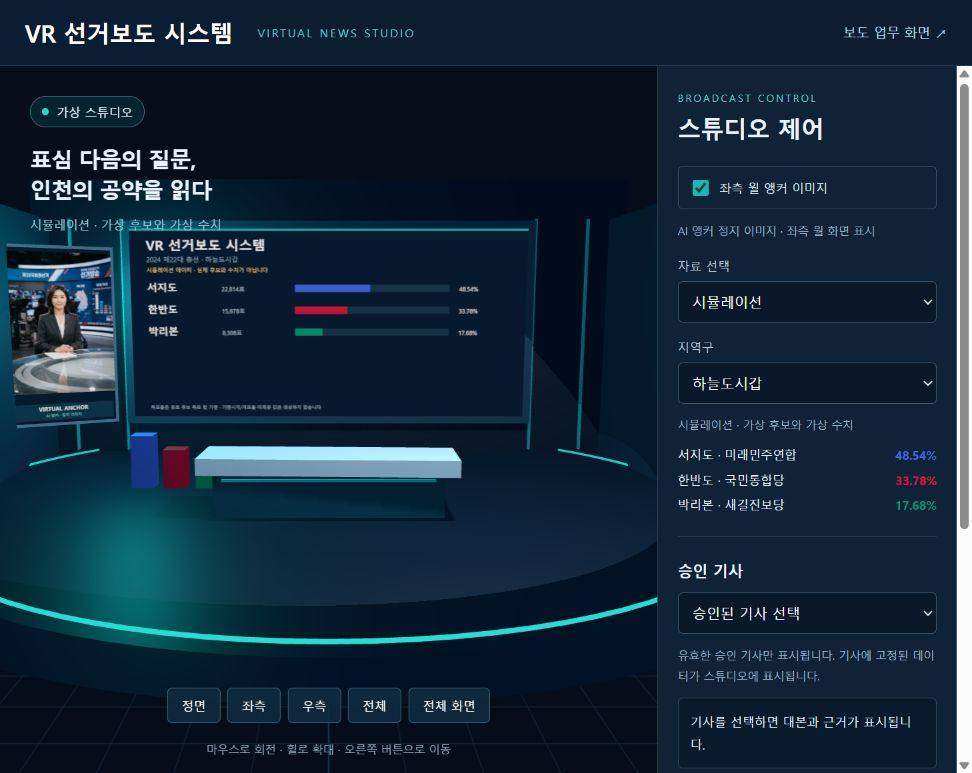
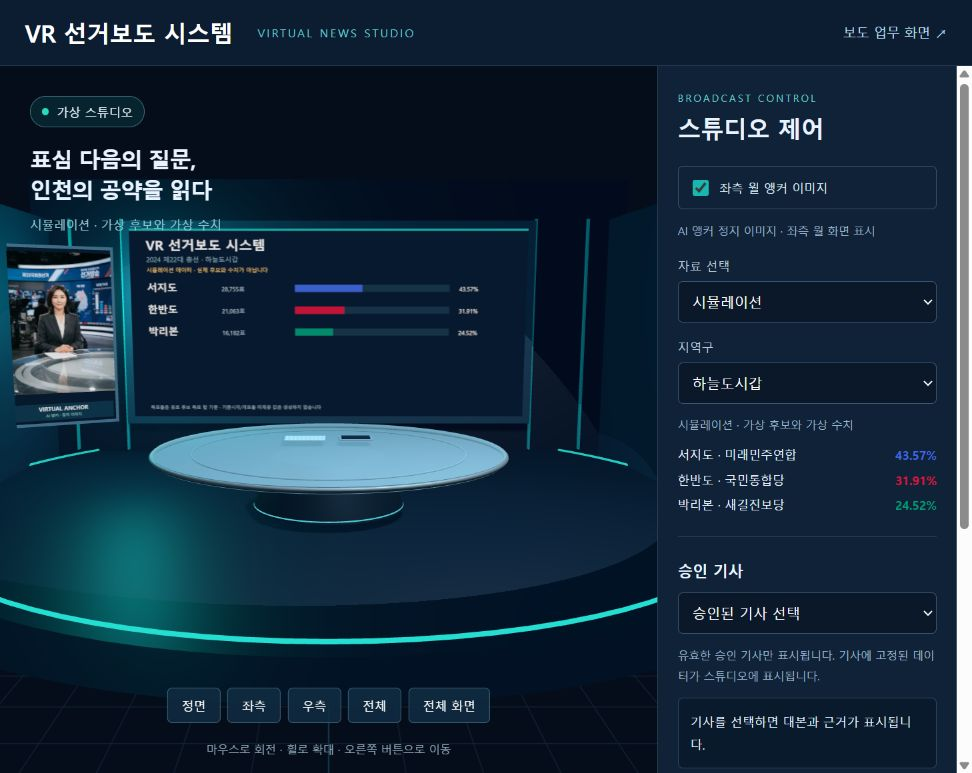
Enlarge circular glass studio desk and remove freestanding candidate bars

Changed region(s): [[0.1235, 0.5278, 0.5247, 0.6831], [0.9259, 0.5899, 0.9568, 0.6831]]

diff --git a/election-news-server/static/studio.js b/election-news-server/static/studio.js
@@ -5,7 +5,7 @@ import {OrbitControls} from '/static/vendor/OrbitControls.js';
 const $=id=>document.getElementById(id);
 const contextParams=new URLSearchParams(location.search),requestedArticle=contextParams.get('article'),requestedRegion=contextParams.get('region');let initialRegionPending=!!requestedRegion;
 const modeParam=contextParams.get('mode');if(['official','demo'].includes(modeParam))$('mode').value=modeParam;
-let renderer,scene,camera,controls,screenTexture,screenCanvas,chartGroup,rows=[],snapshot={},approved=[],currentBundle=null,ws;
+let renderer,scene,camera,controls,screenTexture,screenCanvas,rows=[],snapshot={},approved=[],currentBundle=null,ws;
 const material=(color,metalness=.1)=>new THREE.MeshStandardMaterial({color,metalness,roughness:.5});
 function box(w,h,d,x,y,z,color){const m=new THREE.Mesh(new THREE.BoxGeometry(w,h,d),material(color));m.position.set(x,y,z);m.castShadow=true;m.receiveShadow=true;scene.add(m);return m}
 function init(){
@@ -23,9 +23,15 @@ function init(){
  box(15.8,7.8,.4,0,5,-6.5,'#244c65');
  screenCanvas=document.createElement('canvas');screenCanvas.width=2048;screenCanvas.height=1024;screenTexture=new THREE.CanvasTexture(screenCanvas);screenTexture.colorSpace=THREE.SRGBColorSpace;
  const display=new THREE.Mesh(new THREE.PlaneGeometry(15.2,7.2),new THREE.MeshBasicMaterial({map:screenTexture}));display.position.set(0,5,-6.25);scene.add(display);
- const desk=box(7.0,.45,2,0,1.4,3.0,'#d8e7ee');desk.rotation.y=-.04;box(6.2,1.2,1.5,0,.6,3.0,'#0c4a5c');box(5.7,.06,.08,0,1.03,3.79,'#20d9c8');
+ // Large circular glass desk with a brushed metal rim and pedestal.
+ const glass=new THREE.MeshPhysicalMaterial({color:'#bfdfeb',metalness:.25,roughness:.13,transparent:true,opacity:.58,depthWrite:false,side:THREE.DoubleSide});
+ const desk=new THREE.Mesh(new THREE.CylinderGeometry(4.8,4.8,.16,128),glass);desk.position.set(0,1.65,2.8);desk.receiveShadow=true;scene.add(desk);
+ const rim=new THREE.Mesh(new THREE.TorusGeometry(4.8,.065,12,128),material('#c3d3dc',.8));rim.rotation.x=Math.PI/2;rim.position.set(0,1.65,2.8);scene.add(rim);
+ const innerRim=new THREE.Mesh(new THREE.TorusGeometry(3.75,.025,8,128),material('#a5c4d3',.7));innerRim.rotation.x=Math.PI/2;innerRim.position.set(0,1.66,2.8);scene.add(innerRim);
+ const pedestal=new THREE.Mesh(new THREE.CylinderGeometry(1.55,2.1,1.4,96),material('#17364b',.65));pedestal.position.set(0,.83,2.8);pedestal.castShadow=true;scene.add(pedestal);
+ const deskLight=new THREE.Mesh(new THREE.TorusGeometry(2.05,.035,8,96),new THREE.MeshBasicMaterial({color:'#51cbd5'}));deskLight.rotation.x=Math.PI/2;deskLight.position.set(0,.18,2.8);scene.add(deskLight);
+ box(1.2,.025,.8,-.7,1.76,1.3,'#e1ebef');box(.95,.04,.7,.8,1.76,1.3,'#b1c4d2');box(.85,.015,.6,.8,1.79,1.3,'#122b42');
  addAnchorWall(scene);
- chartGroup=new THREE.Group();scene.add(chartGroup);
  const resize=()=>{const {width,height}=$('stage').getBoundingClientRect();renderer.setSize(width,height);camera.aspect=width/height;camera.fov=THREE.MathUtils.radToDeg(2*Math.atan(Math.tan(THREE.MathUtils.degToRad(24))*Math.max(1,.95/camera.aspect)));camera.updateProjectionMatrix()};new ResizeObserver(resize).observe($('stage'));resize();
  renderer.setAnimationLoop(()=>{controls.update();renderer.render(scene,camera)});$('canvasStatus').hidden=true;draw();
 }
@@ -35,8 +41,7 @@ function draw(){
  const demo=snapshot.mode==='demo';ctx.fillStyle=demo?'#ffd17b':'#84dfd2';ctx.font='28px "Malgun Gothic", sans-serif';ctx.fillText(demo?'시뮬레이션 데이터 · 실제 후보와 수치가 아닙니다':('공식 파일 집계 · '+(snapshot.review?.status==='APPROVED'?'독립 검수 완료':'독립 검수 전')),85,232);
  const displayed=rows.slice(0,5);displayed.forEach((row,i)=>{const y=335+i*119;ctx.fillStyle='white';ctx.font='bold 52px "Malgun Gothic", sans-serif';ctx.fillText(row.candidate_name,85,y);ctx.font='30px "Malgun Gothic", sans-serif';ctx.fillStyle='#b6d4e6';ctx.fillText(Number(row.votes).toLocaleString('ko-KR')+'표',470,y);ctx.fillStyle='#17374c';ctx.fillRect(850,y-35,800,38);ctx.fillStyle=candidateColor(row,i);ctx.fillRect(850,y-35,800*row.vote_share/100,38);ctx.fillStyle='white';ctx.fillText(row.vote_share.toFixed(2)+'%',1700,y)});
  ctx.font='24px "Malgun Gothic", sans-serif';ctx.fillStyle='#9bc0ce';ctx.fillText('득표율은 유효 후보 득표 합 기준 · 기준시각/개표율 미제공 값은 생성하지 않습니다',85,984);screenTexture.needsUpdate=true;
- while(chartGroup.children.length){const mesh=chartGroup.children[0];chartGroup.remove(mesh);mesh.geometry.dispose();mesh.material.dispose()}
- displayed.forEach((r,i)=>{const h=.2+r.vote_share/100*3;const bar=new THREE.Mesh(new THREE.BoxGeometry(.7,h,.7),material(candidateColor(r,i),.4));bar.position.set(-5.8+i*1.0,h/2,-.1);chartGroup.add(bar)});
+
 }
 function update(data){
  if(currentBundle)return;snapshot=data;const selected=$('region').value,regions=[...new Set((data.rows||[]).map(r=>r.region_name))];$('region').replaceChildren(...regions.map(r=>new Option(r,r)));if(initialRegionPending&&regions.includes(requestedRegion)){$('region').value=requestedRegion;initialRegionPending=false}else if(regions.includes(selected))$('region').value=selected;

diff --git a/election-news-server/static/studio.html b/election-news-server/static/studio.html
@@ -2,4 +2,4 @@
 <header><a class="brand" href="/">VR 선거보도 시스템</a><span>VIRTUAL NEWS STUDIO</span><a id="studioWorkLink" href="/">보도 업무 화면 ↗</a></header>
 <main><div id="stage"><div class="stage-overlay"><div class="live"><i></i>가상 스튜디오</div><h1>표심 다음의 질문,<br>인천의 공약을 읽다</h1><p id="stageDisclosure">자료 연결 중</p></div><div id="canvasStatus" role="status">3D 스튜디오를 준비하고 있습니다.</div><div class="camera-bar"><button data-camera="front">정면</button><button data-camera="left">좌측</button><button data-camera="right">우측</button><button data-camera="wide">전체</button><button id="fullscreen">전체 화면</button></div><div class="hint">마우스로 회전 · 휠로 확대 · 오른쪽 버튼으로 이동</div></div>
 <aside><div class="eyebrow">BROADCAST CONTROL</div><h2>스튜디오 제어</h2><label class="anchor-wall-toggle"><input id="anchorWallVisible" type="checkbox" checked> 좌측 월 앵커 이미지</label><p id="anchorWallStatus" class="note">AI 앵커 정지 이미지 · 좌측 월 화면 표시</p><label for="mode">자료 선택</label><select id="mode"><option value="official">2024년 공식 결과</option><option value="demo">시뮬레이션</option></select><label for="region">지역구</label><select id="region"></select><p id="dataStatus" class="note">공식 집계는 독립 검수 여부를 함께 표시합니다.</p><div id="candidateSummary"></div><hr><h3>승인 기사</h3><select id="article"><option value="">승인된 기사를 선택하세요</option></select><p class="note">유효한 승인 기사만 표시됩니다. 기사에 고정된 데이터가 스튜디오에 표시됩니다.</p><div id="script" class="script">기사를 선택하면 대본과 근거가 표시됩니다.</div><div class="actions"><button id="read">대본 읽기</button><button id="stop">중지</button></div><p class="note">브라우저 음성은 미리듣기용입니다. 영상 파일의 음성과는 별개입니다.</p><hr><a id="studioProductionLink" href="/?production=1#production">07 뉴스 제작으로 이동</a><p class="note">선택한 승인 기사와 자료 유형을 뉴스 제작에 전달합니다. 영상 생성은 07에서 실행합니다.</p><button id="capture">스튜디오 이미지 저장</button><p id="message" role="status"></p><p class="note">PC에서 마우스와 키보드로 사용하는 3D 가상 스튜디오입니다.</p></aside></main>
-<script src="/static/newsroom-links.js?v=20261127"></script><script type="module" src="/static/studio.js?v=20261127-original-image"></script></body></html>
+<script src="/static/newsroom-links.js?v=20261127"></script><script type="module" src="/static/studio.js?v=20261127-round-desk"></script></body></html>

diff --git a/README.md b/README.md
@@ -22,7 +22,7 @@
 
 ## 좌측 월 앵커 이미지
 
-기본 스튜디오의 중앙 데스크·메인 개표 화면·무대 구성을 복원하고, 제공된 앵커·보도국 원본 이미지를 좌측 월의 독립 화면에 배치했습니다. 원본 비율을 유지해 배경과 데스크를 포함한 전체 이미지를 표시합니다. **좌측 월 앵커 이미지**로 화면을 표시하거나 숨길 수 있습니다. 전체 구성이 함께 보이도록 정면 카메라 거리를 조정했습니다. 앵커는 AI 정지 이미지이며 립싱크 기능은 없습니다.
+중앙에는 큰 원형 유리 데스크를 배치하고 왼쪽 입체 막대는 제거했습니다. 메인 개표 화면과 무대 구성을 유지하고, 제공된 앵커·보도국 원본 이미지를 좌측 월의 독립 화면에 배치했습니다. 원본 비율을 유지해 배경과 데스크를 포함한 전체 이미지를 표시합니다. **좌측 월 앵커 이미지**로 화면을 표시하거나 숨길 수 있습니다. 전체 구성이 함께 보이도록 정면 카메라 거리를 조정했습니다. 앵커는 AI 정지 이미지이며 립싱크 기능은 없습니다.
 
 ![좌측 월 앵커 화면](outputs/screenshots/studio-anchor-left-wall.jpg)
 
